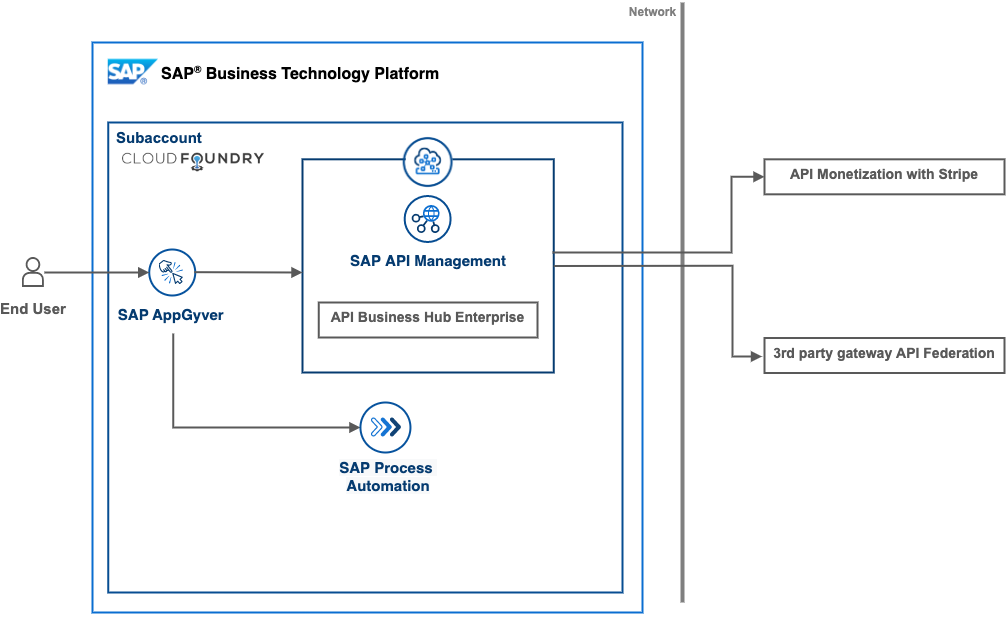
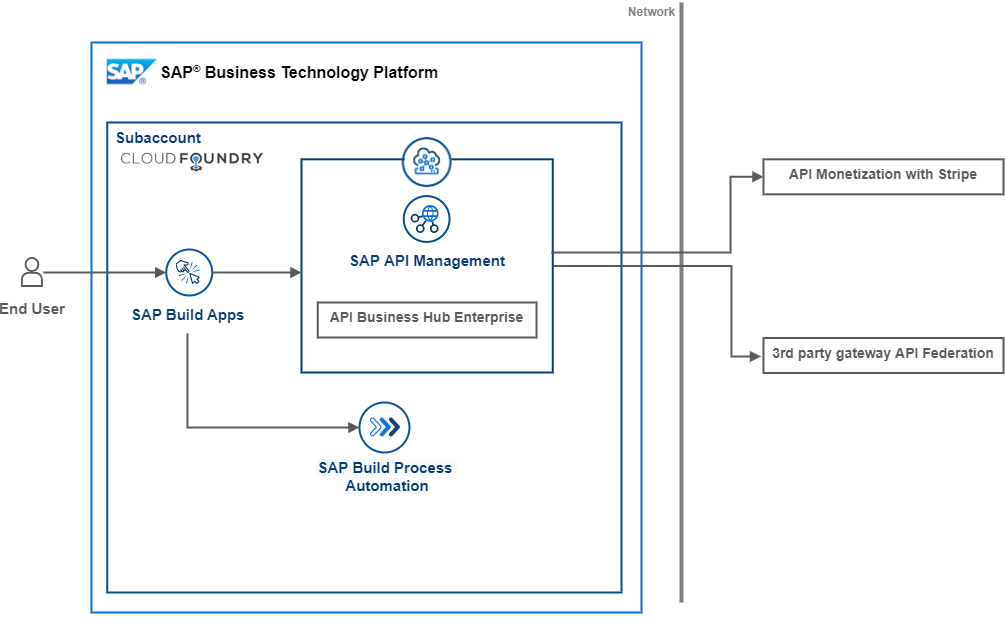
Update product names for SAP Build

diff --git a/02-LowCodeDevPortal/02-03-Create-request-process.md b/02-LowCodeDevPortal/02-03-Create-request-process.md
@@ -1,7 +1,7 @@
 ## Create a process to onboard and provision new developers with access
-Now that the portal is functional, we can provide an onboarding experience for users who browse the API catalog and want to gain access. With SAP Process Automation, we'll receive an inbound API request from the low-code portal, and initiate an approval request for a portal administrator. Once access is granted, the developer will automatically be registered with the Business Hub Enterprise and assigned roles. It can be further extended to provision an application and API Key if desired. 
+Now that the portal is functional, we can provide an onboarding experience for users who browse the API catalog and want to gain access. With SAP Build Process Automation, we'll receive an inbound API request from the low-code portal, and initiate an approval request for a portal administrator. Once access is granted, the developer will automatically be registered with the Business Hub Enterprise and assigned roles. It can be further extended to provision an application and API Key if desired. 
 
-1. Access the Application Development by selecting SAP Process Automation from your SAP BTP cockpit under **Instances and Subscriptions**.
+1. Access the Application Development by selecting SAP Build Process Automation from your SAP BTP cockpit under **Instances and Subscriptions**.
 2. Create a process and configure API trigger:
     * Import the process from the [provided mtar](https://github.com/SAP-samples/btp-create-api-integrations/blob/low-code-dev-portal/Developer_Onboarding.mtar).
     * Open the process and ensure that there are no errors or warnings in the designer.
@@ -10,7 +10,7 @@ Now that the portal is functional, we can provide an onboarding experience for u
     
 2. Implement the actions project and destination for outbound API calls:
     * Create an SAP BTP destination from the [provided template](https://github.com/SAP-samples/btp-create-api-integrations/blob/low-code-dev-portal/LCDevPortal_Reg.destination.txt) and ensure the correct properties are set. See: [Manage Destinations](https://help.sap.com/docs/PROCESS_AUTOMATION/a331c4ef0a9d48a89c779fd449c022e7/0fb074dff1644f2abb047175a9dfd0c1.html?q=destination&locale=en-US).
-    * Add the destination in the **Settings** section of the SAP Process Automation lobby. See: [Configure BTP Destinations in SAP Process Automation
+    * Add the destination in the **Settings** section of the SAP Build Process Automation lobby. See: [Configure BTP Destinations in SAP Process Automation
 ](https://developers.sap.com/tutorials/spa-create-destination.html).
     * Download and import the [provided API Proxy](https://github.com/SAP-samples/btp-create-api-integrations/blob/low-code-dev-portal/DevPortal_RegisteringUsers_CF.zip) and configure the Target EndPoint and Cloud Foundry policy to use the client credentials of your [Developer Portal admin instance](https://github.com/SAP-samples/btp-create-api-integrations/blob/main/01-GettingStartedGuide/01-05-Create-service-instances.md#create-a-service-instance-for-developer-portal-api-access). Client credentials are maintained in the config.js script. This is a simplified version of the [API Business Hub Enterprise - Registering Users](https://api.sap.com/api/DevPortal_RegisteringUsers_CF/overview) scoped for the POST operation.
     * You should secure this proxy and destination with similar BasicAuth and Verify API Key policies as in the previous example. They are omitted here for convenience.
@@ -18,10 +18,10 @@ Now that the portal is functional, we can provide an onboarding experience for u
     * Import the provided [API proxy](https://github.com/SAP-samples/btp-create-api-integrations/blob/low-code-dev-portal/Workflow_Instance_API.zip) to your instance of SAP API Management.
     * Update the Target EndPoint URL to match your environment.
     * You can apply similar Basic Authentication and/or API Key verification to protect the endpoint but the provided policy does not contain them.
-    * Configure the Client ID, Client Secret (maintained in config.js like the previous step), and Token endpoint properties in the policy from the values in the SAP Process Automation service key you saved previously. Make sure the XSUAA URL contains the **/oath/token** suffix.
+    * Configure the Client ID, Client Secret (maintained in config.js like the previous step), and Token endpoint properties in the policy from the values in the SAP Build Process Automation service key you saved previously. Make sure the XSUAA URL contains the **/oath/token** suffix.
     * If you added security to the Workflow Instance API, add the v1_workflow-instances method to the Guest Access API Product you created earlier. If you experience any problems, try [recreating the system application](https://github.com/SAP-samples/btp-create-api-integrations/blob/main/02-LowCodeDevPortal/02-01-Prepare-api-proxy.md#prepare-sap-api-management-for-service-account-access) from the previous step.
         ![Add APIs](https://user-images.githubusercontent.com/6976027/193324224-4cc82519-f7c6-4952-a733-a06eab44d4b7.png)
  
 4. Release process and retrieve definition id
     * Release and deploy the process, selecting the newly configured destination at deploy time.
-    * Retrieve the definition id of the newly released process for use in the developer portal. This can be done either through the SAP Process Automation lobby under **Monitor > Manage > Processes and Workflows** or through the [Workflow definitions](https://api.sap.com/api/SAP_CP_Workflow_CF/resource) API.
+    * Retrieve the definition id of the newly released process for use in the developer portal. This can be done either through the SAP Build Process Automation lobby under **Monitor > Manage > Processes and Workflows** or through the [Workflow definitions](https://api.sap.com/api/SAP_CP_Workflow_CF/resource) API.

diff --git a/01-GettingStartedGuide/README.md b/01-GettingStartedGuide/README.md
@@ -8,28 +8,33 @@ The required systems and components are:
 
 - SAP BTP account
 
-Entitlements/Quota required in your SAP Business Technology Platform Account:
+Free (Tier) Entitlements/Quota required in your SAP Business Technology Platform Account:
 
-| Service                           | Plan        | Number of instances |
-| --------------------------------- | ----------- | ------------------- |
-| SAP Integration Suite             | free        | 1                   |
-|API Management, API Portal         | apiportal-apiaccess | 1           |
-|API Management, developer portal   | devportal-apiaccess | 1           |
-| SAP Process Automation            | standard    | 1                   |
-| Authorization & Trust Management  | application | 1                   |
-| Destination                       | lite        | 1                   |
-| SAP AppGyver                      | free        | 1                   |
-| SAP BTP, Kyma runtime             | free        | 1                   |
+| Service                           | Plan                    | Number of instances |
+| --------------------------------- | ----------------------- | ------------------- |
+| API Management, API Portal        | apiportal-apiaccess     | 1                   |
+| API Management, developer portal  | devportal-apiaccess     | 1                   |
+| Authorization & Trust Management  | application             | 1                   |
+| Destination                       | lite                    | 1                   |
+| SAP BTP, Kyma runtime             | free                    | 1                   |
+| SAP Build Apps                    | free (Application)      | 1                   |
+| SAP Build Process Automation      | free (Application)      | 1                   |
+| SAP Build Process Automation      | standard <sup>(1)</sup> | 1                   |
+| SAP Integration Suite             | free                    | 1                   |
+
+> **(1)** - Make sure to select the **standard** and not the **standard (Application)** quota for SAP Build Process Automation. 
 
 Subscriptions required in your SAP Business Technology Platform Account:
 
 | Subscription                      | Plan             |
 | --------------------------------- | ---------------- |
-| SAP Integration Suite             | standard         |
-| SAP AppGyver                      | standard         |
-| SAP Process Automation            | free             |
+| SAP Integration Suite             | free             |
+| SAP Build Process Automation      | free             |
+| SAP Build Apps                    | free             |
 
-* [Setup SAP low code solutions using BTP boosters](https://github.com/SAP-docs/btp-cloud-platform/blob/main/docs/30-development/boosters-fb1b561.md) - In this section, you can learn how to use BTP boosters and automate the setup of SAP BTP low code SaaS applications by executing the SAP Process Automation and SAP AppGyver boosters in your subaccount
+> **Hint** - In Trial accounts, the service plans for e.g. SAP Integration Suite will be different like **trial** instead of free. 
+
+* [Setup SAP low code solutions using BTP boosters](https://github.com/SAP-docs/btp-cloud-platform/blob/main/docs/30-development/boosters-fb1b561.md) - In this section, you can learn how to use BTP boosters and automate the setup of SAP BTP low code SaaS applications by executing the SAP Build Process Automation and SAP Build Apps boosters in your subaccount
 * [Subscribe to SAP Integration Suite](./01-02-Subscribe-Integration-Suite.md)
 * [Deploy SAP BTP, Kyma runtime](https://github.com/SAP-docs/btp-cloud-platform/blob/main/docs/50-administration-and-ops/create-the-kyma-environment-instance-09dd313.md) - If you're interested in API federation and monetization, you will need an instance of Kyma runtime. Follow these instructions to get started with Kyma.
 * [Activate the API Management capability in SAP Integration Suite](01-04-Activate-API-Management.md)

diff --git a/02-LowCodeDevPortal/02-02-Build-low-code-app.md b/02-LowCodeDevPortal/02-02-Build-low-code-app.md
@@ -1,8 +1,8 @@
 # Build a low code Developer Portal
-In this section, you will build a low code app in SAP AppGyver. For reference, see other walkthrough missions, such as [Custom mobile HR app](https://github.com/SAP-samples/successfactors-extension-calculate-employee-seniority/tree/mission-sfsf-mobile-appgyver/04-CreateSAPAppGyverProject) and [Covid certificate checker](https://github.com/SAP-samples/cap-appgyver-covid-certcheck/tree/main/tutorials/4_AppGyverApp).
+In this section, you will build a low code app in SAP Build Apps. For reference, see other walkthrough missions, such as [Custom mobile HR app](https://github.com/SAP-samples/successfactors-extension-calculate-employee-seniority/tree/mission-sfsf-mobile-appgyver/04-CreateSAPAppGyverProject) and [Covid certificate checker](https://github.com/SAP-samples/cap-appgyver-covid-certcheck/tree/main/tutorials/4_AppGyverApp).
 
 ## API Product Home
-1. Access SAP AppGyver from the SAP BTP cockpit under **Subscriptions and Instances** and create a new SAP Appgyver project from the dropdown list.
+1. Access SAP Build Apps from the SAP BTP cockpit under **Subscriptions and Instances** and create a new SAP Build Apps project from the dropdown list.
 2. Activate **Auth > Enable Authentication > BTP authentication**.
 3. Create a new integration under **Data > Add Integration > BTP Destinations** and select the LCDevPortal destination from the previous step.
 4. Enable the Applications, APIProducts, and APIProxies entities and save (use the browse data feature to make sure everything is working).
@@ -86,7 +86,7 @@ However, we are providing the basic authentication credentials for the custom HT
   ![Application Detail](img/ApplicationDetail.png)
 
 ## Swagger UI (Optional)
-As an optional step, you can deploy this ["Dockerized" version of swagger-ui-express](https://github.com/SAP-samples/btp-create-api-integrations/tree/low-code-dev-portal/swagger-ui-sample) on Kyma and use it to provide the API documentation from your Business Hub Enterprise tenant. The full experience of Business Hub Enterprise uses [Swagger UI](https://swagger.io/tools/swagger-ui/) which is implemented as a browser-side js/css. SAP AppGyver doesn't currently support inclusion of custom client-side libraries but it is a current [roadmap item](https://discovery-center.cloud.sap/serviceCatalog/sap-appgyver?service_plan=standard&region=europe(frankfurt)&commercialModel=cloud&tab=roadmap). 
+As an optional step, you can deploy this ["Dockerized" version of swagger-ui-express](https://github.com/SAP-samples/btp-create-api-integrations/tree/low-code-dev-portal/swagger-ui-sample) on Kyma and use it to provide the API documentation from your Business Hub Enterprise tenant. The full experience of Business Hub Enterprise uses [Swagger UI](https://swagger.io/tools/swagger-ui/) which is implemented as a browser-side js/css. SAP Build Apps doesn't currently support inclusion of custom client-side libraries but it is a current [roadmap item](https://discovery-center.cloud.sap/serviceCatalog/sap-appgyver?service_plan=standard&region=europe(frankfurt)&commercialModel=cloud&tab=roadmap). 
 
 Important: The sample isn't intended to be used productively, as you would run into POST body size issues for very lengthy API documentation and each successive POST overwrites the previous documentation. Instead, consider it to be an example of how you can solve problems creatively with low code tools.
 

diff --git a/README.md b/README.md
@@ -3,7 +3,7 @@
 # Create simple, connected digital experiences with API-based integration
 
 ## Description
-Build a unified catalog and a developer portal for all APIs, regardless of where they're managed. Create your own digital experiences with SAP AppGyver, SAP Integration Suite, and SAP Process Automation to operationalize access requests, federate API from disparate gateways, and monetize their use.
+Build a unified catalog and a developer portal for all APIs, regardless of where they're managed. Create your own digital experiences with SAP Build Apps, SAP Integration Suite, and SAP Build Process Automation to operationalize access requests, federate API from disparate gateways, and monetize their use.
 
 In an API-first economy, the new business opportunities created from transactional and analytical systems are invaluable. Ensure governance, agility, and a clean line of sight into consumption help you make the most of them.
 

diff --git a/02-LowCodeDevPortal/README.md b/02-LowCodeDevPortal/README.md
@@ -1,6 +1,6 @@
 # Low code Developer Portal scope
 * [Prepare platform API proxy](./02-01-Prepare-api-proxy.md) - Import and configure an API proxy to manage service credentials and provision access to the Business Hub Enterprise platform API      
-* [Build and test SAP AppGyver app](02-02-Build-low-code-app.md) - Create the low code Developer Portal
+* [Build and test SAP Build Apps app](02-02-Build-low-code-app.md) - Create the low code Developer Portal
 * [Create Developer onboarding request process](02-03-Create-request-process.md) - Create an automated process to approve and onboard developers to the portal
 * [Integrate Dev portal with request process via API](02-04-Integrate-portal-and-process.md) - Invoke your process from the low code portal
 * [Test the low code developer portal end to end](02-05-Test-E2E.md) - Test the full integration and demo flow of the mission scope

diff --git a/01-GettingStartedGuide/01-05-Create-service-instances.md b/01-GettingStartedGuide/01-05-Create-service-instances.md
@@ -67,8 +67,8 @@ A service instance lets you interact with the API Management, API portal service
       "clientSecret": "secret"
       }
       ```
-## Create a Service Instance for SAP Process Automation
-  1. Create a service instance of SAP Process Automation along with a service key. Follow the same steps as above, but select **SAP Process Automation** as the service. Save the endpoints.api value and credentials for later.
+## Create a Service Instance for SAP Build Process Automation
+  1. Create a service instance of SAP Build Process Automation along with a service key. Follow the same steps as above, but select **SAP Build Process Automation** as the service. Save the endpoints.api value and uaa credentials for later.
 
 ## Create a Destination for API Portal API access
 

diff --git a/02-LowCodeDevPortal/02-04-Integrate-portal-and-process.md b/02-LowCodeDevPortal/02-04-Integrate-portal-and-process.md
@@ -1,6 +1,6 @@
 ## Integrate the portal and process
 Now that your low code portal is built and request API access process deployed, the final step is to integrate the two, so that the process can be invoked from a request form in the portal.
-  1. Open the **API Product Detail** page in SAP AppGyver.
+  1. Open the **API Product Detail** page in SAP Build Apps.
   2. Add a button to the bottom of the canvas and set the label to **Request Access to this API**.
   3. Create a new page called **API request form**.
   4. Customize the header and add three input fields below. Name them **First Name**, **Last Name**, and **Email**.
